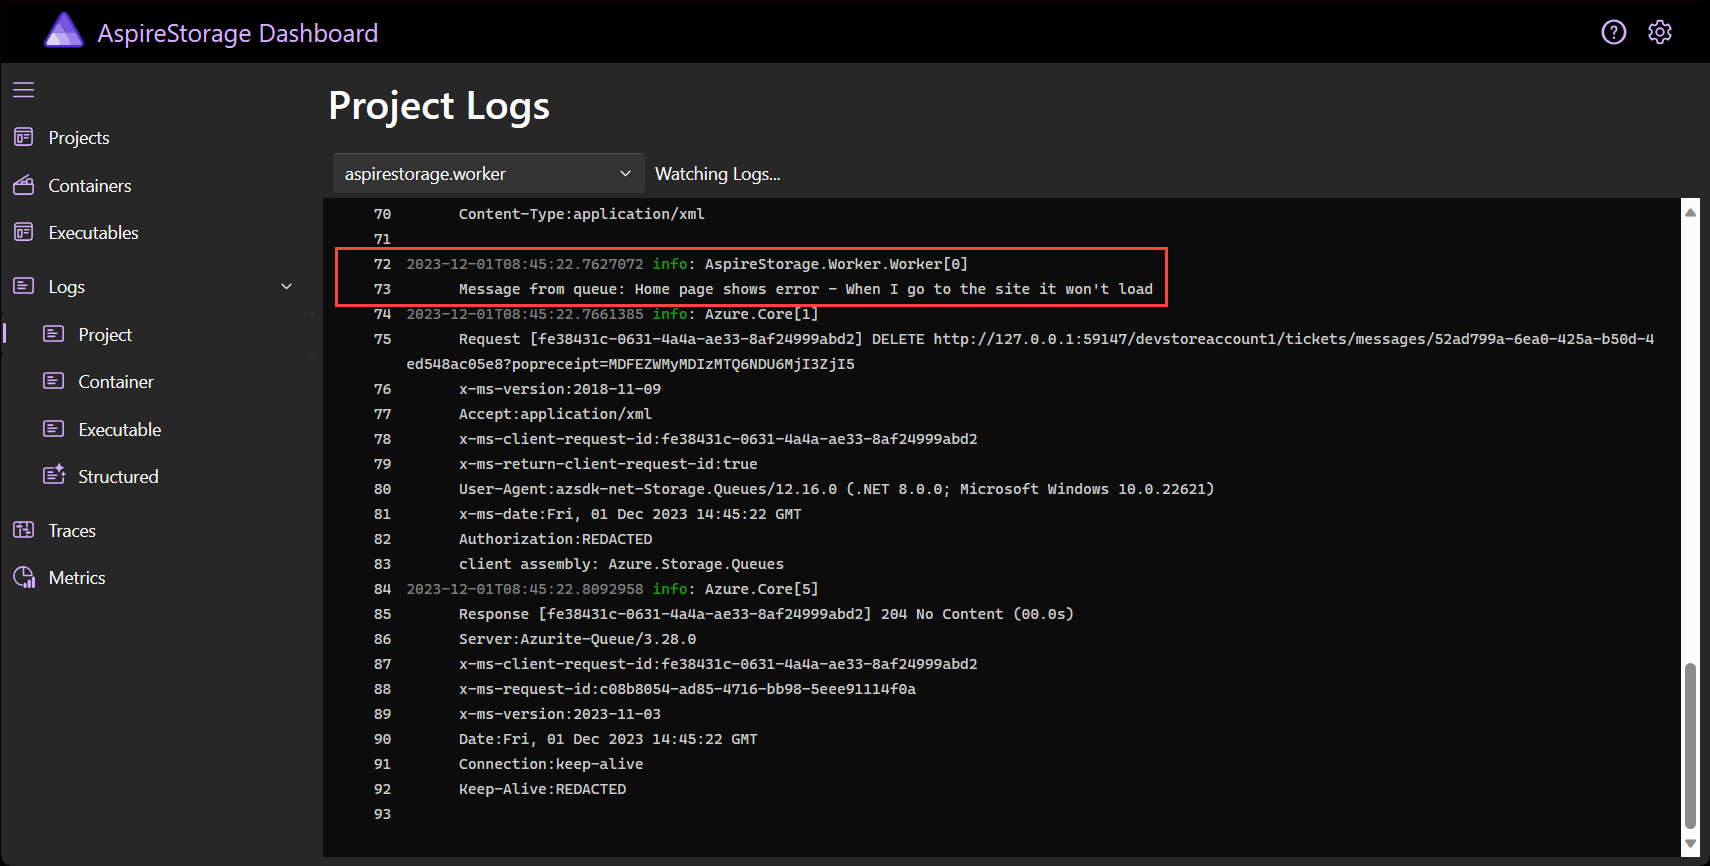
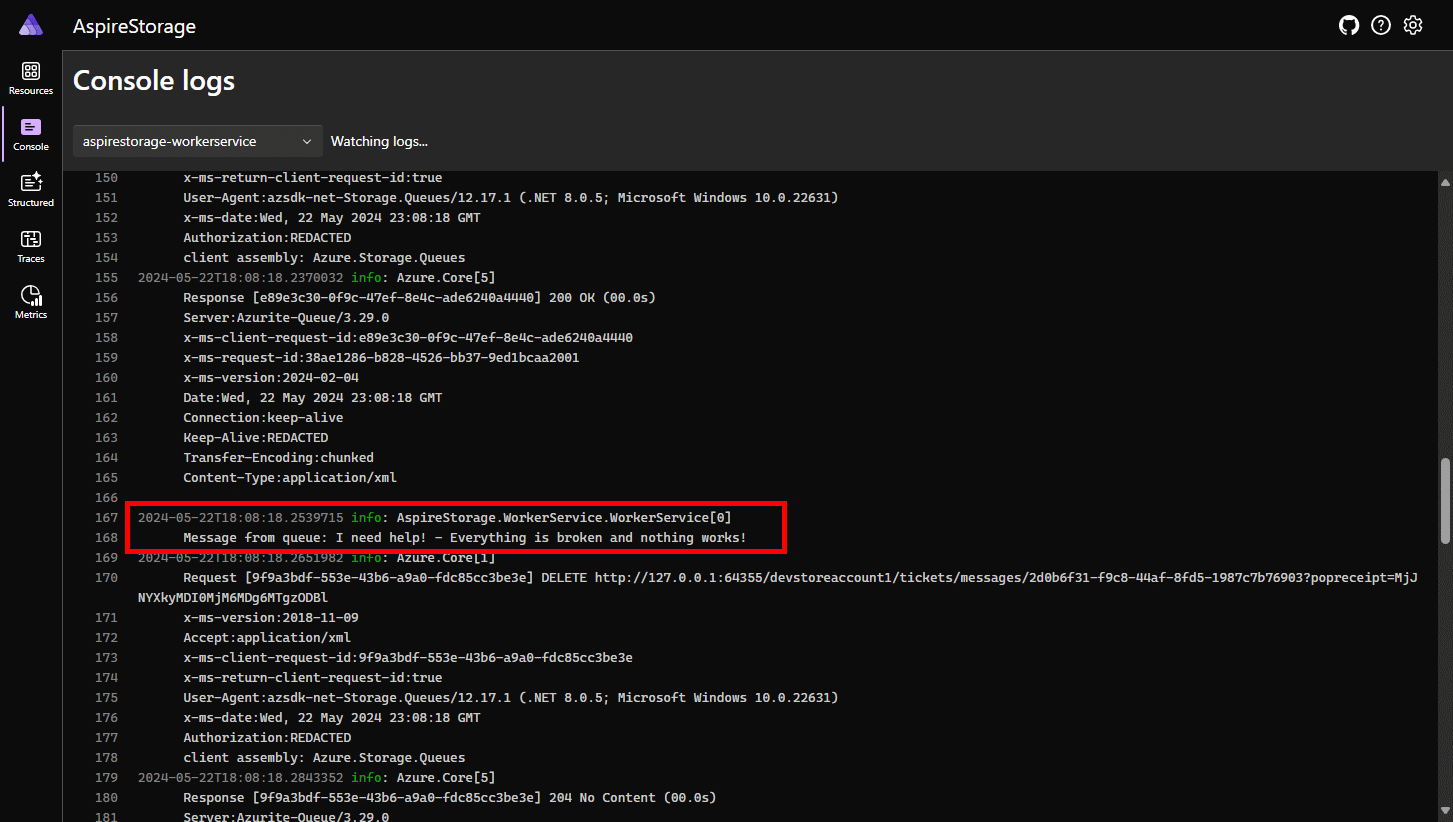
doc updates

Changed region(s): [[0.0, 0.0, 1.0, 1.0]]

diff --git a/docs/storage/snippets/tutorial/AspireStorage/AspireStorage.Web/Program.cs b/docs/storage/snippets/tutorial/AspireStorage/AspireStorage.Web/Program.cs
@@ -6,7 +6,6 @@ using Azure.Storage.Queues;
 
 var builder = WebApplication.CreateBuilder(args);
 
-
 builder.AddAzureBlobClient("BlobConnection");
 builder.AddAzureQueueClient("QueueConnection");
 

diff --git a/docs/storage/azure-storage-components.md b/docs/storage/azure-storage-components.md
@@ -116,20 +116,14 @@ Create a .NET Aspire app using either Visual Studio or the .NET CLI.
 ## [Visual Studio](#tab/visual-studio)
 
 1. At the top of Visual Studio, navigate to **File** > **New** > **Project**.
-1. In the dialog window, search for *Blazor* and select **Blazor Web App**. Choose **Next**.
+1. In the dialog window, search for *Aspire* and select **.NET Aspire Starter Application**. Choose **Next**.
 1. On the **Configure your new project** screen:
-    - Enter a **Project Name** of **AspireStorage**.
-    - Leave the rest of the values at their defaults and select **Next**.
+    - Enter a **Solution Name** of **AspireStorage and select **Next**.
 1. On the **Additional information** screen:
-    - Make sure **.NET 8.0** is selected.
-    - Ensure the **Interactive render mode** is set to **None**.
-    - Check the **Enlist in .NET Aspire orchestration** option and select **Create**.
+    - Uncheck **Use Redis for caching** (not required for this tutorial).
+    - Select **Create**.
 
-Visual Studio creates a new ASP.NET Core solution that is structured to use .NET Aspire. The solution consists of the following projects:
-
-- **AspireStorage**: A Blazor project that depends on service defaults.
-- **AspireStorage.AppHost**: An orchestrator project designed to connect and configure the different projects and services of your app. The orchestrator should be set as the startup project.
-- **AspireStorage.ServiceDefaults**: A shared class library to hold configurations that can be reused across the projects in your solution.
+Visual Studio creates a new ASP.NET Core solution that is structured to use .NET Aspire.
 
 ## [.NET CLI](#tab/net-cli)
 
@@ -139,14 +133,14 @@ Use the [`dotnet new`](/dotnet/core/tools/dotnet-new) command to create a new .N
 dotnet new aspire-starter --name AspireStorage
 ```
 
+---
+
 The solution consists of the following projects:
 
 - **AspireStorage.ApiService** - An API project with default .NET Aspire service configurations.
 - **AspireStorage.AppHost** - An orchestrator project designed to connect and configure the different projects and services of your app. The orchestrator should be set as the startup project.
 - **AspireStorage.ServiceDefaults** - A shared class library to hold code that can be reused across the projects in your solution.
 - **AspireStorage.Web** - A Blazor Server project that serves as the front end of your app.
-
----
 
 ### Add the Worker Service project
 
@@ -156,7 +150,7 @@ Next, add a Worker Service project to the solution to retrieve and process messa
 
 1. In the solution explorer, right click on the top level _AspireStorage_ solution node and select **Add** > **New project**.
 1. Search for and select the **Worker Service** template and choose **Next**.
-1. For the **Project name**, enter _AspireStorage.Worker_ and select **Next**.
+1. For the **Project name**, enter _AspireStorage.WorkerService_ and select **Next**.
 1. On the **Additional information** screen:
     - Make sure **.NET 8.0** is selected.
     - Make sure **Enlist in .NET Aspire orchestration** is checked and select **Create**.
@@ -164,7 +158,7 @@ Next, add a Worker Service project to the solution to retrieve and process messa
 Visual Studio adds the project to your solution and updates the _:::no-loc text="Program.cs":::_ file of the _AspireStorage.AppHost_ project with a new line of code:
 
 ```csharp
-builder.AddProject<Projects.AspireStorage_Worker>();
+builder.AddProject<Projects.AspireStorage_WorkerService>("aspirestorage-workerservice");
 ```
 
 Visual Studio tooling added this line of code to register your new project with the <xref:Aspire.Hosting.IDistributedApplicationBuilder> object, which enables orchestration features. For more information, see [.NET Aspire orchestration overview](../fundamentals/app-host-overview.md).
@@ -203,29 +197,29 @@ The completed solution structure should resemble the following:
 
 ## Add the .NET Aspire components to the Blazor app
 
-Add the [.NET Aspire Azure Blob Storage component](azure-storage-blobs-component.md) and [.NET Aspire Azure Queue Storage component](azure-storage-queues-component.md) packages to your _AspireStorage_ project:
+Add the [.NET Aspire Azure Blob Storage component](azure-storage-blobs-component.md) and [.NET Aspire Azure Queue Storage component](azure-storage-queues-component.md) packages to your _AspireStorage.Web_ project:
 
 ```dotnetcli
 dotnet add package Aspire.Azure.Storage.Blobs
 dotnet add package Aspire.Azure.Storage.Queues
 ```
 
-Your **AspireStorage** project is now set up to use .NET Aspire components. Here's the updated _AspireStorage.csproj_ file:
+Your **AspireStorage.Web** project is now set up to use .NET Aspire components. Here's the updated _AspireStorage.Web.csproj_ file:
 
-:::code language="xml" source="snippets/tutorial/AspireStorage/AspireStorage/AspireStorage.csproj" highlight="10-13":::
+:::code language="xml" source="snippets/tutorial/AspireStorage/AspireStorage.Web/AspireStorage.Web.csproj" highlight="14-15":::
 
 The next step is to add the components to the app.
 
-In the _:::no-loc text="Program.cs":::_ file of the _AspireStorage_ project, add calls to the <xref:Microsoft.Extensions.Hosting.AspireBlobStorageExtensions.AddAzureBlobClient%2A> and <xref:Microsoft.Extensions.Hosting.AspireQueueStorageExtensions.AddAzureQueueClient%2A> extension methods after the creation of the `builder` but before the call to `AddServiceDefaults`. For more information, see [.NET Aspire service defaults](../fundamentals/service-defaults.md). Provide the name of your connection string as a parameter.
+In the _:::no-loc text="Program.cs":::_ file of the _AspireStorage.Web_ project, add calls to the <xref:Microsoft.Extensions.Hosting.AspireBlobStorageExtensions.AddAzureBlobClient%2A> and <xref:Microsoft.Extensions.Hosting.AspireQueueStorageExtensions.AddAzureQueueClient%2A> extension methods after the creation of the `builder` but before the call to `AddServiceDefaults`. For more information, see [.NET Aspire service defaults](../fundamentals/service-defaults.md). Provide the name of your connection string as a parameter.
 
 :::zone pivot="azurite"
 
-:::code source="snippets/tutorial/AspireStorage/AspireStorage/Program.cs" highlight="2-3,7-8,29-38":::
+:::code source="snippets/tutorial/AspireStorage/AspireStorage.Web/Program.cs" highlight="4-5,9-10,36-48":::
 
 :::zone-end
 :::zone pivot="azure-portal,azure-cli"
 
-:::code source="snippets/tutorial/AspireStorage/AspireStorage/Program.cs" range="1-26,40-58" highlight="2-3,7-8":::
+:::code source="snippets/tutorial/AspireStorage/AspireStorage.Web/Program.cs" range="1-35,49-63" highlight="2-3,7-8":::
 
 :::zone-end
 
@@ -236,21 +230,21 @@ With the additional `using` statements, these methods accomplish the following t
 
 :::zone pivot="azurite"
 
-When the _AspireStorage_ project starts, it will create a `fileuploads` container in Azurite Blob Storage and a `tickets` queue in Azurite Queue Storage. This is conditional when the app is running in a development environment. When the app is running in a production environment, the container and queue are assumed to have already been created.
+When the _AspireStorage.Web_ project starts, it will create a `fileuploads` container in Azurite Blob Storage and a `tickets` queue in Azurite Queue Storage. This is conditional when the app is running in a development environment. When the app is running in a production environment, the container and queue are assumed to have already been created.
 
 :::zone-end
 
 ## Add the .NET Aspire component to the Worker Service
 
-The worker service handles pulling messages off of the Azure Storage queue for processing. Add the [.NET Aspire Azure Queue Storage component](azure-storage-queues-component.md) component package to your _AspireStorage.Worker_ app:
+The worker service handles pulling messages off of the Azure Storage queue for processing. Add the [.NET Aspire Azure Queue Storage component](azure-storage-queues-component.md) component package to your _AspireStorage.WorkerService_ app:
 
 ```dotnetcli
 dotnet add package Aspire.Azure.Storage.Queues
 ```
 
-In the _:::no-loc text="Program.cs":::_ file of the _AspireStorage.Worker_ project, add a call to the <xref:Microsoft.Extensions.Hosting.AspireQueueStorageExtensions.AddAzureQueueClient%2A> extension method after the creation of the `builder` but before the call to `AddServiceDefaults`:
+In the _:::no-loc text="Program.cs":::_ file of the _AspireStorage.WorkerService_ project, add a call to the <xref:Microsoft.Extensions.Hosting.AspireQueueStorageExtensions.AddAzureQueueClient%2A> extension method after the creation of the `builder` but before the call to `AddServiceDefaults`:
 
-:::code source="snippets/tutorial/AspireStorage/AspireStorage.Worker/Program.cs" highlight="5":::
+:::code source="snippets/tutorial/AspireStorage/AspireStorage.WorkerService/Program.cs" highlight="5":::
 
 This method handles the following tasks:
 
@@ -261,7 +255,7 @@ This method handles the following tasks:
 
 The app requires a form for the user to be able to submit support ticket information and upload an attachment. The app uploads the attached file on the `Document` (<xref:Microsoft.AspNetCore.Http.IFormFile>) property to Azure Blob Storage using the injected <xref:Azure.Storage.Blobs.BlobServiceClient>. The <xref:Azure.Storage.Queues.QueueServiceClient> sends a message composed of the `Title` and `Description` to the Azure Storage Queue.
 
-Use the following Razor markup to create a basic form, replacing the contents of the _Home.razor_ file in the _AspireStorage/Components/Pages_ directory:
+Use the following Razor markup to create a basic form, replacing the contents of the _Home.razor_ file in the _AspireStorage.Web/Components/Pages_ directory:
 
 :::code language="razor" source="snippets/tutorial/AspireStorage/AspireStorage/Components/Pages/Home.razor":::
 
@@ -299,7 +293,7 @@ The preceding code adds Azure storage, blobs, and queues, and when in developmen
 :::zone-end
 :::zone pivot="azure-portal,azure-cli"
 
-:::code source="snippets/tutorial/AspireStorage/AspireStorage.AppHost/Program.cs" range="1-5,11-23":::
+:::code source="snippets/tutorial/AspireStorage/AspireStorage.AppHost/Program.cs" range="1-6,12-27":::
 
 The preceding code adds Azure storage, blobs, and queues, and defines references for these resources within each project that depend on them.
 
@@ -311,14 +305,14 @@ When a new message is placed on the `tickets` queue, the worker service should r
 
 :::zone pivot="azurite"
 
-:::code source="snippets/tutorial/AspireStorage/AspireStorage.Worker/Worker.cs":::
+:::code source="snippets/tutorial/AspireStorage/AspireStorage.WorkerService/Worker.cs":::
 
 Before the worker service can process messages, it needs to be able to connect to the Azure Storage queue. With Azurite, you need to ensure that the queue is available before the worker service starts executing message queue processing.
 
 :::zone-end
 :::zone pivot="azure-portal,azure-cli"
 
-:::code source="snippets/tutorial/AspireStorage/AspireStorage.Worker/Worker.cs" range="1-12,15-37":::
+:::code source="snippets/tutorial/AspireStorage/AspireStorage.WorkerService/Worker.cs" range="1-12,15-37":::
 
 The worker service processes messages by connecting to the Azure Storage queue, and pulling messages off the queue.
 
@@ -358,7 +352,7 @@ The sample app is now ready for testing. Verify that the submitted form data is 
 ## [Visual Studio](#tab/visual-studio)
 
 1. Press the run button at the top of Visual Studio to launch your .NET Aspire app dashboard in the browser.
-1. On the resources page, in the **aspirestorage** row, click the link in the **Endpoints** column to open the UI of your app.
+1. On the resources page, in the **aspirestorage.web** row, click the link in the **Endpoints** column to open the UI of your app.
 
     :::image type="content" source="media/support-app.png" lightbox="media/support-app.png" alt-text="A screenshot showing the home page of the .NET Aspire support application.":::
 
@@ -366,7 +360,7 @@ The sample app is now ready for testing. Verify that the submitted form data is 
 1. Select the **Submit** button, and the form submits the support ticket for processing — and clears the form.
 1. In a separate browser tab, use the Azure portal to navigate to the **Storage browser** in your Azure Storage Account.
 1. Select **Containers** and then navigate into the **Documents** container to see the uploaded file.
-1. You can verify the message on the queue was processed by looking at the **Project logs** of the [.NET Aspire dashboard](../fundamentals/dashboard/overview.md), and selecting the **aspirestorage.worker** from the dropdown.
+1. You can verify the message on the queue was processed by looking at the **Project logs** of the [.NET Aspire dashboard](../fundamentals/dashboard/overview.md), and selecting the **aspirestorage.workerservice** from the dropdown.
 
     :::image type="content" source="media/queue-output.png" lightbox="media/queue-output.png"  alt-text="A screenshot showing the console output of the Worker app.":::
 
@@ -386,7 +380,7 @@ The sample app is now ready for testing. Verify that the submitted form data is 
 1. Select the **Submit** button, and the form submits the support ticket for processing — and clears the form.
 1. In a separate browser tab, use the Azure portal to navigate to the **Storage browser** in your Azure Storage Account.
 1. Select **Containers** and then navigate into the **Documents** container to see the uploaded file.
-1. You can verify the message on the queue was processed by looking at the **Project logs** of the [.NET Aspire dashboard](../fundamentals/dashboard/overview.md), and selecting the **aspirestorage.worker** from the dropdown.
+1. You can verify the message on the queue was processed by looking at the **Project logs** of the [.NET Aspire dashboard](../fundamentals/dashboard/overview.md), and selecting the **aspirestorage.workerservice** from the dropdown.
 
     :::image type="content" source="media/queue-output.png" lightbox="media/queue-output.png"  alt-text="A screenshot showing the console output of the Worker app.":::
 

diff --git a/docs/messaging/messaging-components.md b/docs/messaging/messaging-components.md
@@ -69,11 +69,11 @@ Visual Studio provides app templates to get started with .NET Aspire that handle
 1. At the top of Visual Studio, navigate to **File** > **New** > **Project**.
 1. In the dialog window, search for *Aspire* and select **.NET Aspire Starter Application**. Choose **Next**.
 1. On the **Configure your new project** screen:
-    - Enter a **Project Name** of **AspireMessaging**.
+    - Enter a **Solution Name** of **AspireMessaging**.
     - Leave the rest of the values at their defaults and select **Next**.
 1. On the **Additional information** screen:
-    - Make sure **.NET 8.0** is selected.
-    - Ensure that **Enlist in Aspire orchestration** is checked and select **Next**.
+    - Uncheck **Use Redis for caching** (not required for this tutorial).
+    - Select **Create**.
 
 ## [.NET CLI](#tab/dotnet-cli)
 
